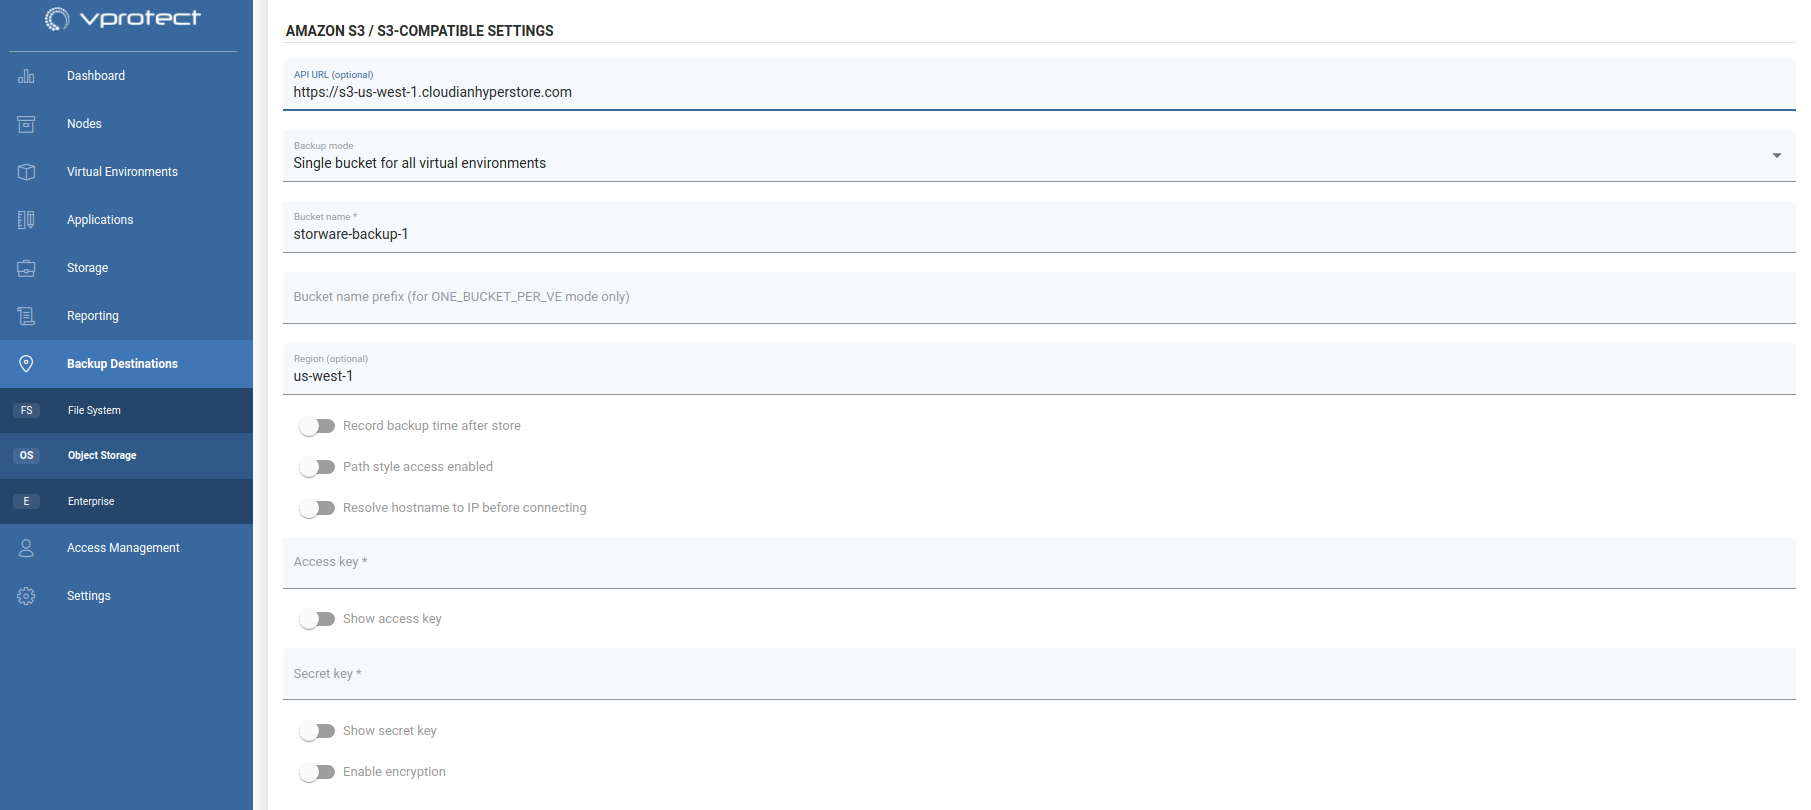
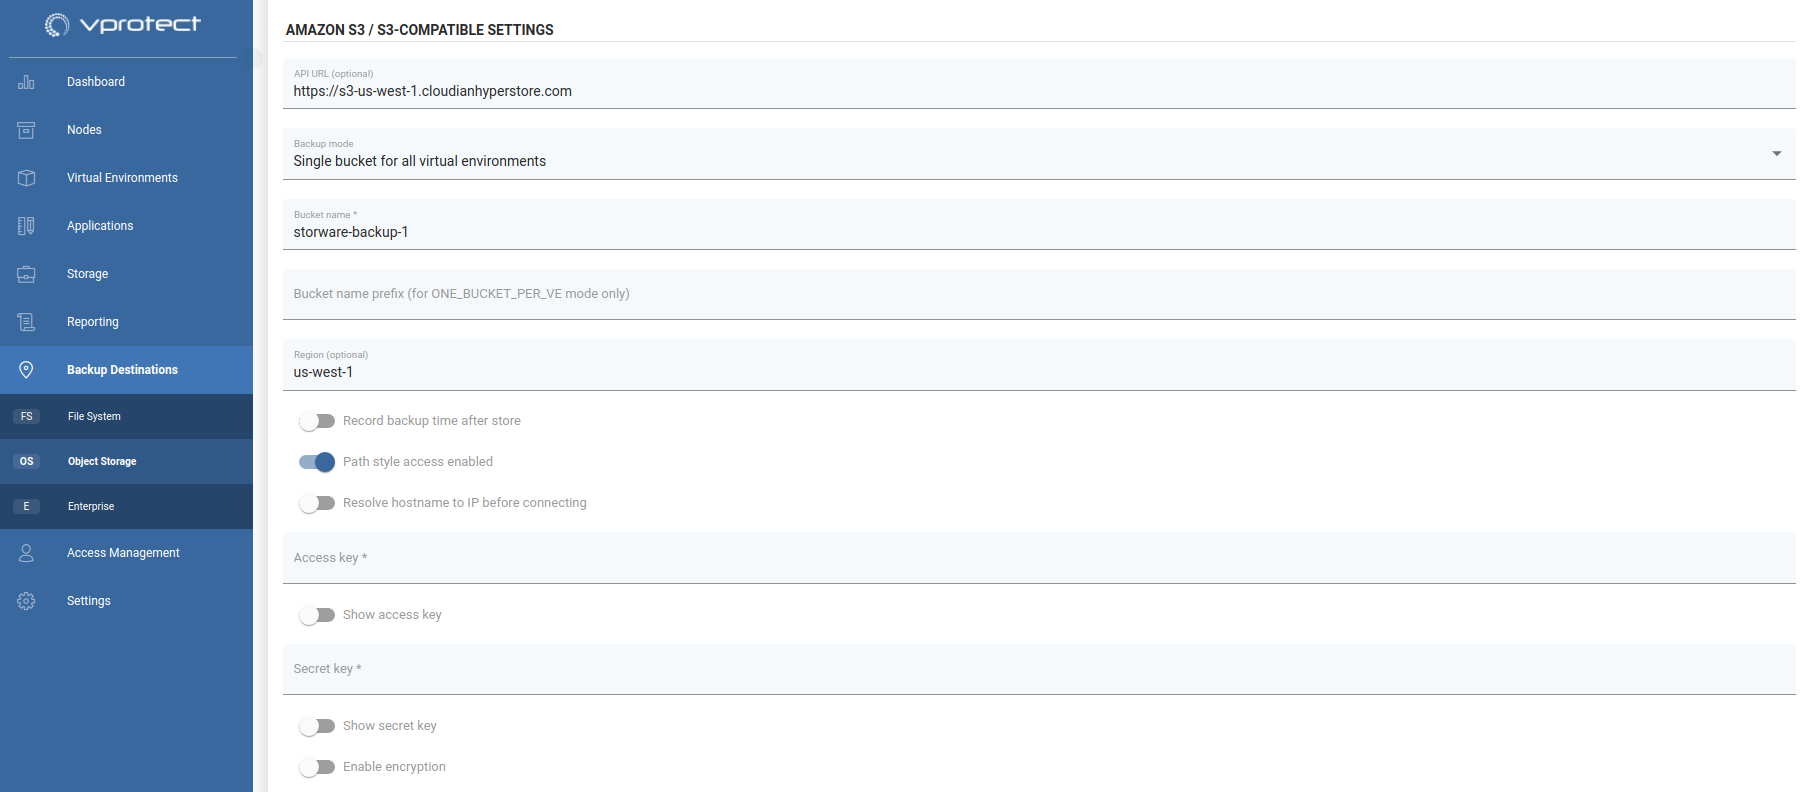
Fix cloudian example

diff --git a/deployment/backup-destinations/object-storage/cloudian.md b/deployment/backup-destinations/object-storage/cloudian.md
@@ -14,6 +14,6 @@ Next, go to security credentials and generate new access key.
 
 ![](../../.gitbook/assets/../../../.gitbook/assets/cloudian-key.png)
 
-Now go to the Backup destination tab on the vProtect dashboard and change the sub-tab to object storage. Provide the bucket name and key credentials, and then configure the remaining options according to your requirements:
+Now go to the Backup destination tab on the vProtect dashboard and change the sub-tab to object storage. Provide the bucket name and key credentials, and then configure the remaining options according to your requirements. Also enable `Path style access enabled` option:
 
 ![](../../.gitbook/assets/../../../.gitbook/assets/cloudian-example.png)
